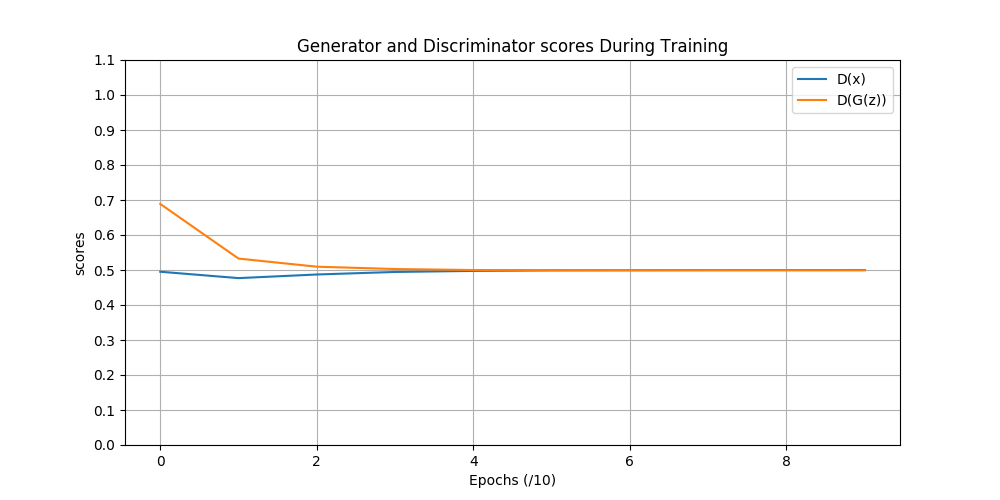
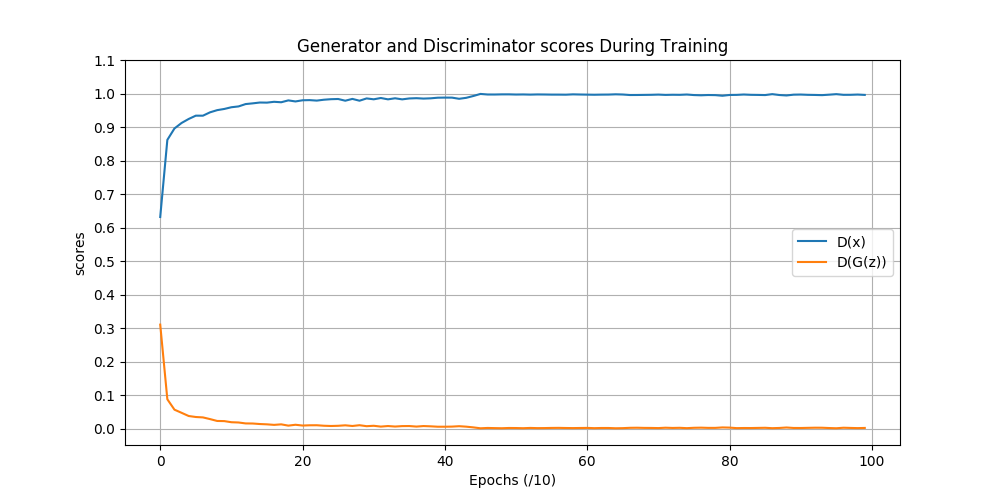
Fin exp

diff --git a/W6.md b/W6.md
@@ -53,10 +53,25 @@ __Résultats__ :
 __Conclusion__ :
   - La méthodes est à revoir et le code à vérifier .
   
-##### Test Treshold en 64x64 batchsize=32 epochs=5000 lr=0.0004 eps=0.05
-D train avnt G
+##### Test current en 64x64 batchsize=32 epochs=5000 lr=0.0004 eps=0.05
+D train avant G
 Deux batch distinct (fack et real) pour train D
 BCElogits
+Retrait de LS
+Retrait du dropout
+Méthode de sampling en mode eval
+
+__Résultats__ :
+  - DCGAN (gt-0 dcgan): Les images sont moins belles qu'avec W5_init_dcgan, cela vient surement de BCElogits ou de l'absence de dropout. On constate (sur les courbe et les images) un point (440 environ) à partir duquel G dé-apprend complètement.
+		Time=3h 
+		
+__Conclusion__ :
+  - Ce modèl corrige une part des erreur d'implémentation faite jusqu'ici sans modification majeurs des résultats.
+  - C'est une nouvelle base de travail.
+  
+##### Test points en 32x32 batchsize=32 epochs=300 lr=0.0004
+Hypothèse : Les points noirs constater sur les images sont du au dropout. La génération des images durant l'entrainement est affecter par le dropout.
+Pour verrifier ceci on va générer les images de la manière habituel puis en passant le modèle en mode eval. 
 
 __Résultats__ :
   - DCGAN (gt-0 dcgan): 
@@ -64,4 +79,3 @@ __Résultats__ :
 		
 __Conclusion__ :
   - :
-  
